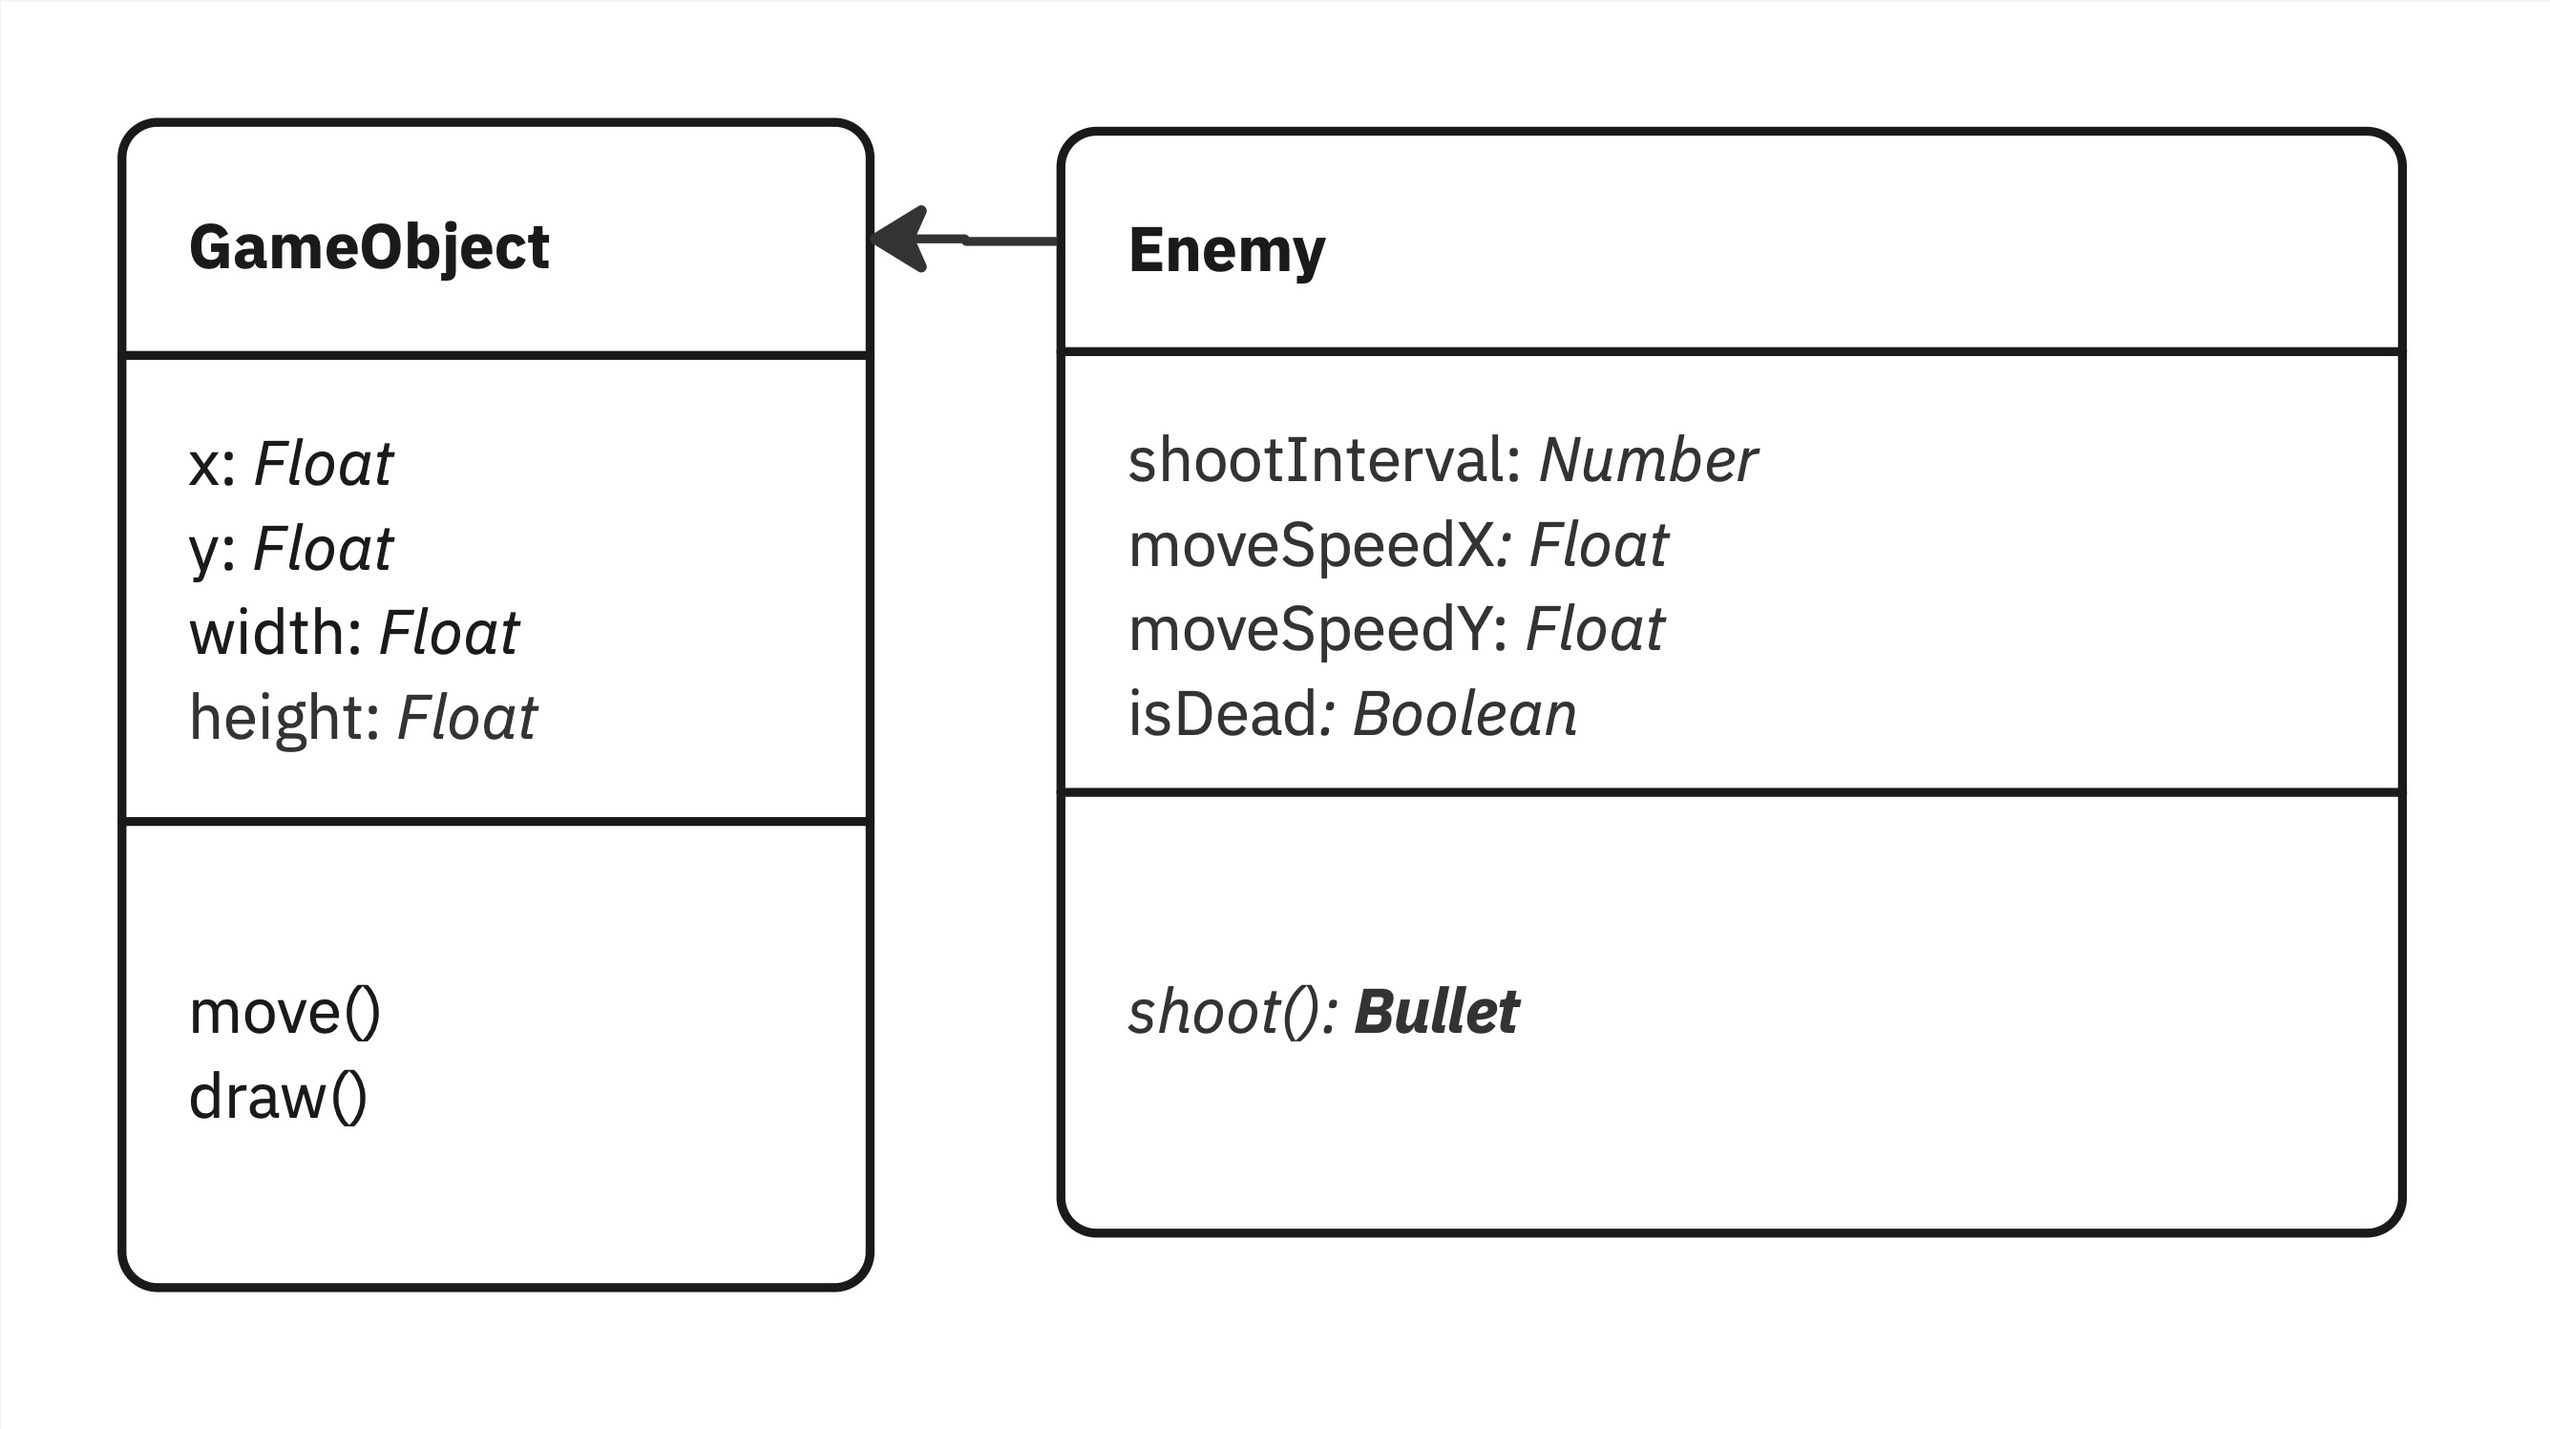
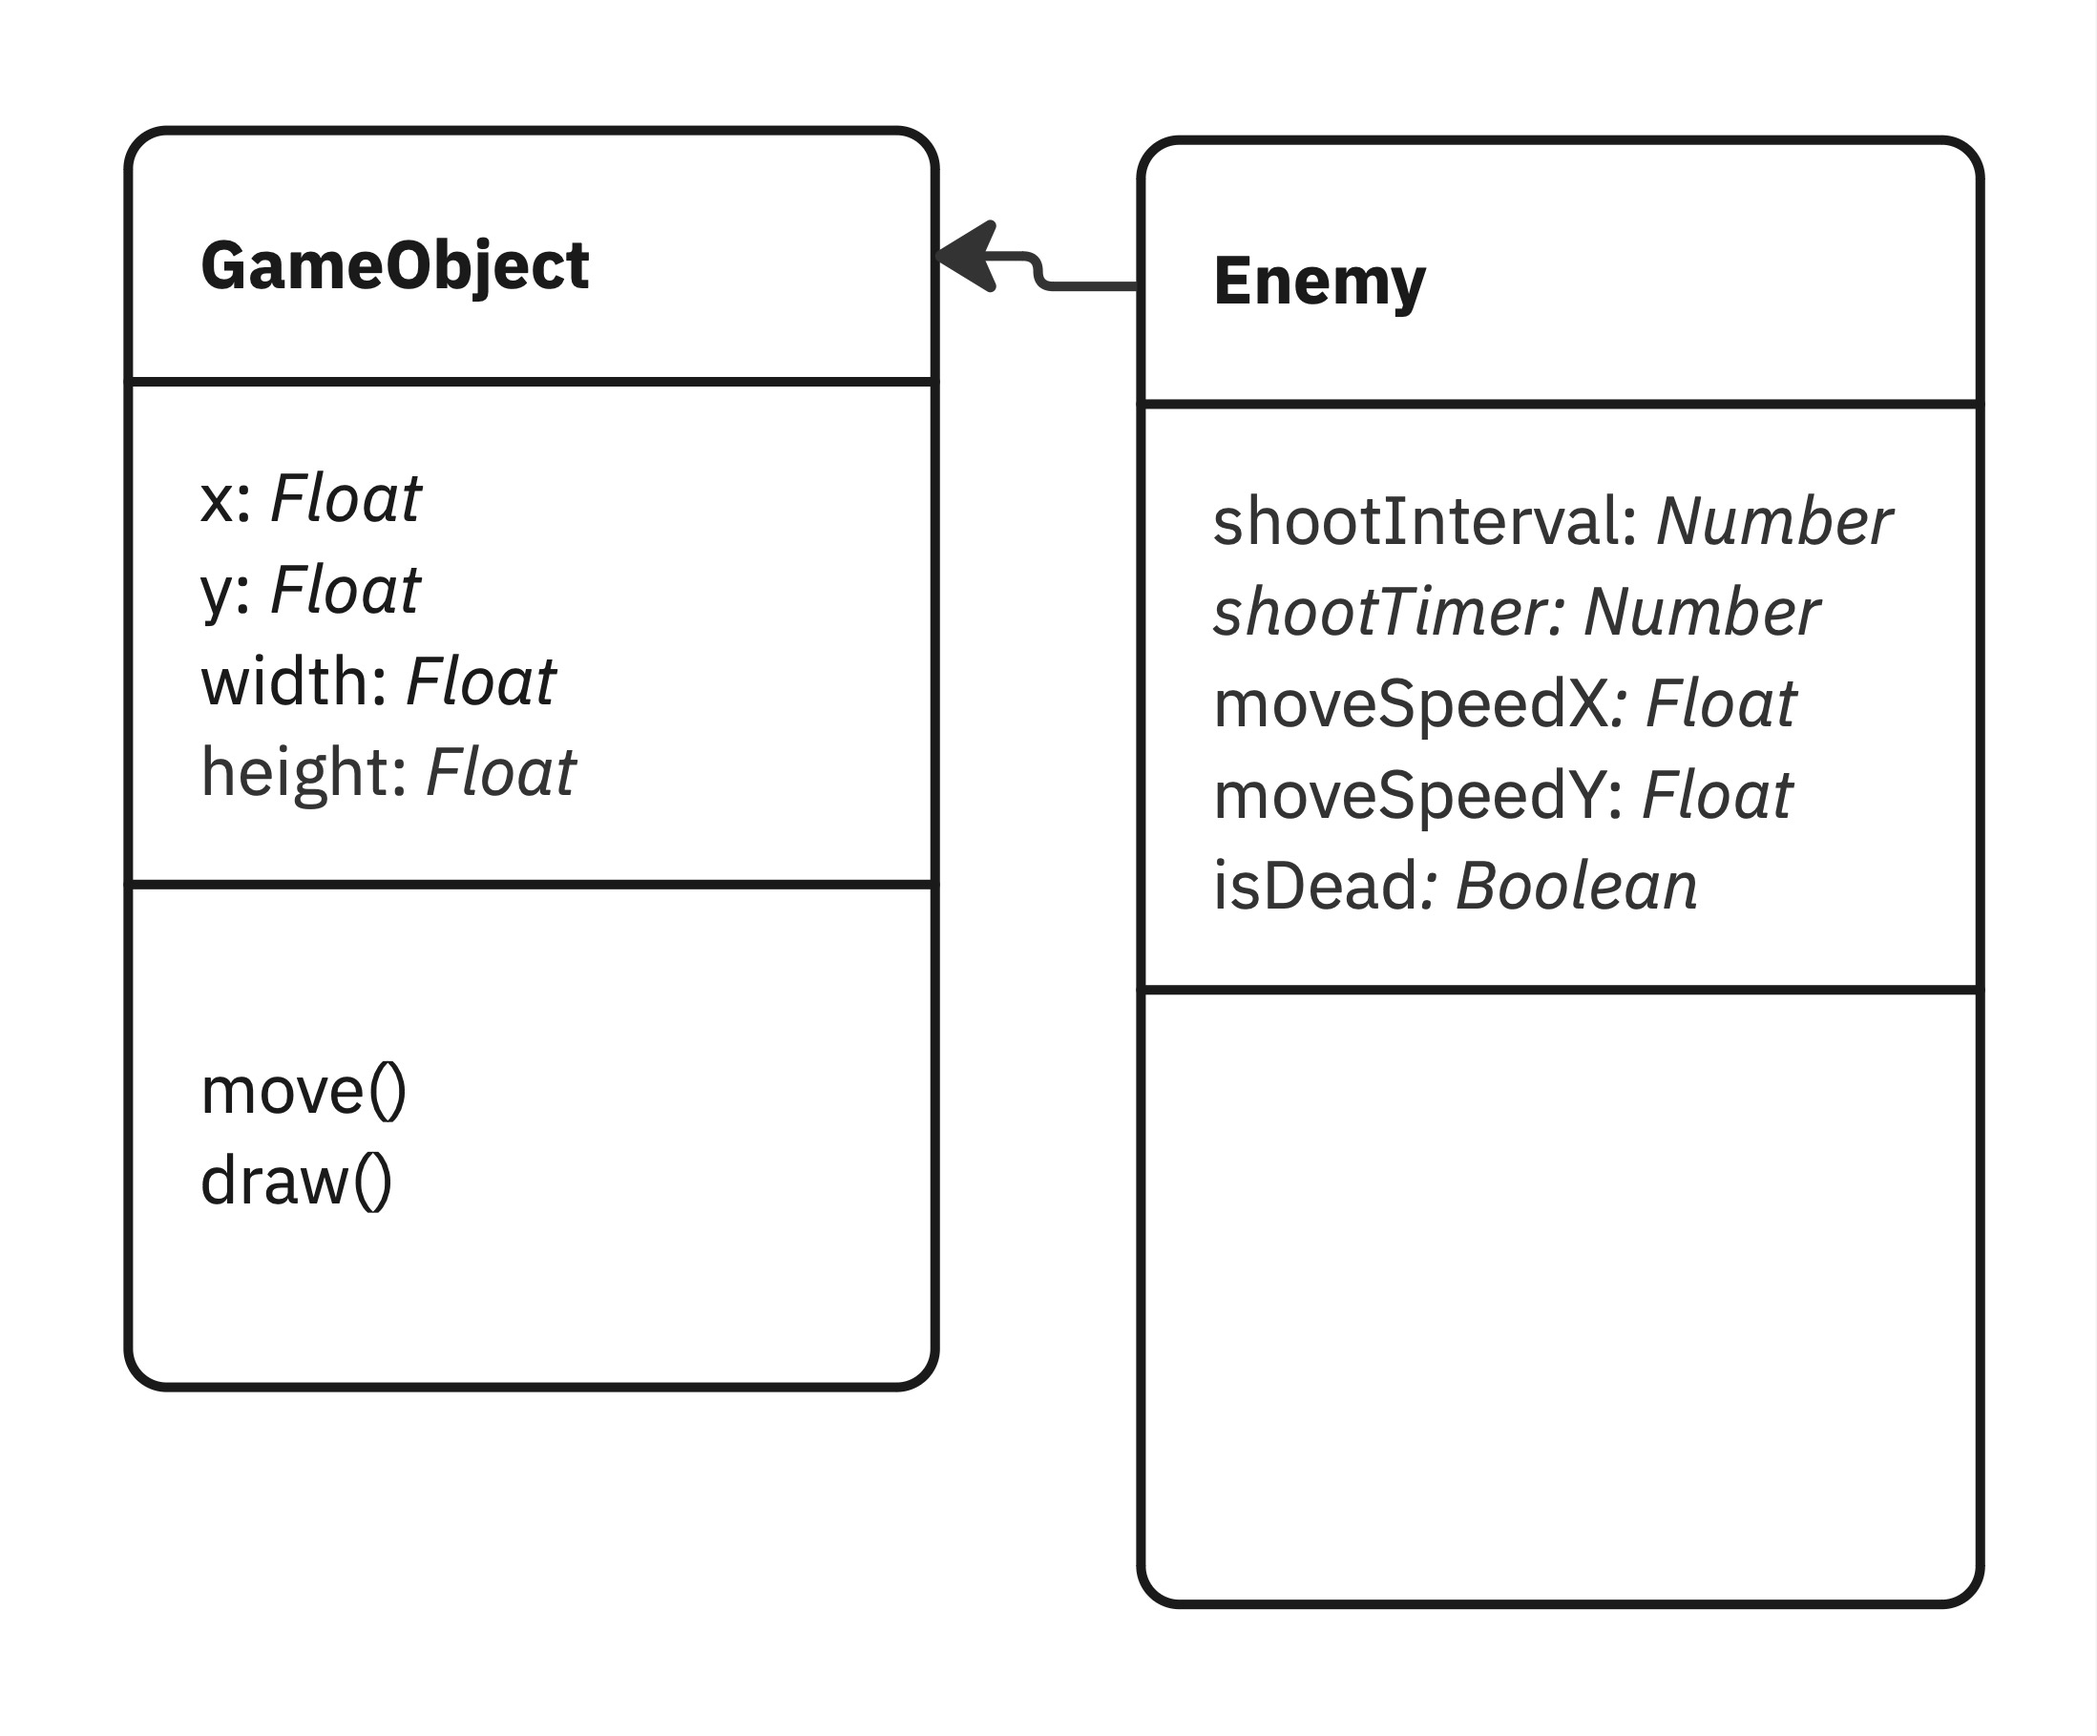
Finished the Coding Worksheet

Changed region(s): [[0.031, 0.0615, 0.9595, 0.9218], [0.5571, 0.9218, 0.9285, 0.9526], [0.0619, 0.8911, 0.3405, 0.9218]]

diff --git a/Week_17/README.md b/Week_17/README.md
@@ -9,7 +9,7 @@ Since we learned **Object-Oriented Programming** in the previous three weeks. Le
 
 As you are now more comfortable to work with the Class Diagram. Before we start coding, let's take a few minutes to **look** at the Class Diagram below, to understand the structure of our game project. To complete this project, you need to create 5 classes, including:
 
-![Class_Diagram](images/Class_Diagram.jpg)
+![Class_Diagram](images/Class_Diagram_0.jpg)
 
 - `Game`, a **singleton** Class where we stored data, including `level`, `health`, `enemies`, `bullets` and `player`.
 - `GameObject`, is a **superclass** where we store, `x`, `y`, `width`, and `height` properties.
@@ -151,7 +151,9 @@ function draw()
 
 <details>
 <summary>Tip:</summary>
-You might need to use the <a href="https://p5js.org/reference/#/p5/keyIsDown">keyIsDown</a> to detect keyboard events.
+
+You might need to use the [`keyIsDown`](https://p5js.org/reference/#/p5/keyIsDown) to detect keyboard events.
+
 </details>  
 
 ### &#x1F536; 2nd code challenge:  
@@ -165,20 +167,24 @@ You might need to use the <a href="https://p5js.org/reference/#/p5/keyIsDown">ke
 ! and add a few rows of enemies into your sketch!
 ``` 
 
+<details>
+<summary>Tip:</summary>
+
+You will need to use [`for`](https://www.w3schools.com/js/js_loop_for.asp) loops to create a few rows of `enemies`, and you will also need to customize the `movingSpeedX` of enemies based on their row number!
+
+</details>  
+
 Idealistically, after you finish the two challenges above, there will be a few rows of enemies and a player on your sketch. 
 
 ![Game Object Class Diagram](./images/Screenshot_2.gif)
-
-<details>
-<summary>Tip:</summary>
-You will need to use For loops to create a few rows of enemies, and you will also need to customize the moving speed of enemies based on their row number!
-</details>  
 
 *****
 
 ### Task 3 - Let's bullets Fly!
 
 If you have completed these tasks, it's time to enable our player to shoot bullets!
+
+#### 1. Creating the `Bullet` Class
 
 ![Game Object Class Diagram](./images/Class_Diagram_5.jpg)
 
@@ -195,7 +201,9 @@ class Bullet extends GameObject
   // Create a new bullet by passing who is the shooter.
   constructor(shooter)
   {
-    // Use super() statement to call its superclass - GameObject, to initialise a new Bullet object. based on current shooter's x and y axis.
+    // Use super() statement to call its superclass - GameObject
+    // to initialise a new Bullet object. 
+    // based on current shooter's x and y axis.
     super(shooter.x,shooter.y,2,20);
 
     // Record who shoot the bullet
@@ -211,12 +219,204 @@ class Bullet extends GameObject
 }
 ```
 
-To enable our player to shoot Bullets. We need to add the new function `shoot()` into our `Player` Class. If we detect a player pressing a key, it will generate a bullet from the current player's position.
+#### 2. Shooting bullets from the `Player`.
+
+To enable our player to shoot Bullets. We need to add this skill to our `Player` class. If we detect a player pressing a key, it will generate a bullet from the current player's position. In `sketch.js`, we need to create an empty array of `bullets` as a global variable:
+
+```javascript
+// An empty bullets array to record all the bullets
+let bullets = [];
+```
+
+and draw the `bullets` array with a for loop inside the `draw()`:
+
+```javascript
+// Render all the bullets inside our array.
+for (let i=0; i<bullets.length; i++)
+{
+  bullets[i].move();
+  bullets[i].draw();
+}
+```
+
+...and lastly, create a new `Bullet` object when we press the Space bar.
+
+```javascript
+function keyPressed()
+{
+  // When we detect the space bar (keyCode 32) is being pressed
+  if (keyCode == 32)
+  {
+    // Create a new bullet with the player's object
+    let bullet = new Bullet(player);
+    // Add the bullet into our bullets array.
+    bullets.push(bullet);
+  }
+}
+```
+
+### &#x1F536; 3rd code challenge:  
+
+```diff
+! Don't let the player shooting bullets alone.
+! Let's the enemies joins our bullets party as well!
+! Please enable them to shoot towards the opposite direction.
+``` 
+
+<details>
+<summary>Tip:</summary>
+Please take a look at the Enemy Class Diagram. You will need to:
+
+1. Generate a random number to set the `shootInterval` of shooting bullets, and a `shootTimer` to record how long since we shoot the last bullet.
+2. If the `shootTimer` is equal to or bigger than the `shootInterval`, create a new `Bullet`, push it into our `bullet` array, and reset the `shootTimer` and `shootInterval`.
+3. If the shooter is not the player, reverse the `moveSpeedY` of the bullet.
+</details>  
+
+Idealistically, after you finish the two challenges above, the enemies will shoot their bullets like rain!
+
+![Game Object Class Diagram](./images/Screenshot_3.gif)
 
 *****
 
-### Task 4 - Implementing the `Game` Class into `sketch.js`
+### Task 4 - GAME OVER!
+
+The `Player` and the `enemies` are indeed shooting a lot of `bullets`! But those `bullets` seem quite harmless. Let's do some damage! Since we learned about the [Singleton Design Pattern](https://en.wikipedia.org/wiki/Singleton_pattern) today. Let's put it into real practice!
 
 ![Game Object Class Diagram](./images/Class_Diagram_2.jpg)
 
+#### 1. Create the Singleton Class `Game`
+Based on the `Game` Class Diagram above, it should include a few arrays of `enemies`, `bullets` and one `player` object. Meanwhile, it also provides a `Game` object named as `shared`. Therefore, we can access all the properties inside the singleton class `Game`.
+
+Firstly, let's replace our global variables inside the `sketch.js`, including `player`, `enemies` and `bullets` into our new `Game` class.
+
+```javascript
+class Game
+{
+  // A Single and only access to our Game Data. 
+  // When we need to access the data in other classes or files. 
+  // We just need to use Game.shared to access all the necessary data.
+  static shared = new Game();
+
+  // We put all our previous global variable into the `Game` class. 
+  // Therefore, 
+  player = new Player(320, 420, 20, 20);
+  enemies = [];
+  bullets = [];
+}
+```
+
+#### 2. Refactor our global variables.
+
+If you run your project now. There will be a lot of red errors popping out! Don't panic! This is a normal process. You just need to replace all codes that are still using the previous global variables `player`, `enemies` and `bullets` with the new `Game.shared.player`, `Game.shared.enemies` and the `Game.shared.bullets`. In the programming world, we call this process **Refactoring**. If you have no idea where to find those variable still haven't replace. Just open the **Inspect** Panel on the Web Browser and take a look at the error messages in the **Console panel**!
+
+#### 3. GAME OVER!
+
+In the `Bullet` class, we need to add another function for detecting if the bullet is colliding with other GameObjects. In the following script, by accessing the Singleton Class with `Game.shared.player`, if the bullet is colliding with the player, it will set the player as dead.
+
+```javascript
+detectCollision()
+{
+  // Get the player Object from our Game Singleton Class
+  let player = Game.shared.player
+
+  // If the bullet is not shoot by the bullet, 
+  // detect if the bullet is collide with the player.
+  if (this.shooter != player)
+  {
+    // If the bullet is within the range of the bullet...
+    if (this.x > player.x && this.x < player.x + player.width && 
+        this.y > player.y && this.y < player.y + player.height)
+    {
+      // If the player haven't die yet.
+      if (!player.isDead)
+      {
+        // The Player is now dead!
+        player.isDead = true;
+      }
+    }
+  }
+}
+```
+
+We also need to execute the detection function when it's drawing the bullet
+```javascript
+draw()
+{
+  fill('white');
+  this.y += this.moveSpeedY;
+  rect(this.x,this.y,this.width,this.height);
+  // Add the detectCollision function in draw();
+  this.detectCollision();
+}
+```
+
+Finally, inside our `sketch.js` file, if we found out the player was already dead. Let's end our game by adding a Game Over Scene by refactoring our draw() function with:
+
+```javascript
+function draw() 
+{
+  background(0);
+  
+  // If the player is already dead, let's display game over instead.
+  if (Game.shared.player.isDead) 
+  { 
+    textFont('Helvetica');
+    textSize(64);
+    text('GAME OVER!', 120, 260); 
+  }
+  // If the player is still alive, let's continue our game.
+  else
+  {
+    Game.shared.player.move();
+    Game.shared.player.draw();
+    
+    for (let i=0; i<Game.shared.enemies.length; i++)
+    {
+      Game.shared.enemies[i].move();
+      Game.shared.enemies[i].draw();
+    }
+
+    for (let i=0; i<Game.shared.bullets.length; i++)
+    {
+      Game.shared.bullets[i].move();
+      Game.shared.bullets[i].draw();
+    }
+  }
+}
+```
+
+### &#x1F536; 4rd code challenge:  
+
+```diff
+! Let's the enemies can be hit by the player's bullets!
+! If there's no enemies on the screen anymore, declare victory!
+! But beaware, do not let the enemies killing each other with their own bullets!
+``` 
+
+Idealistically, after you finish the challenge above, there will be a few rows of enemies and a player on your sketch. 
+
+![Game Object Class Diagram](./images/Screenshot_4.gif)
+
 *****
+
+### Task 5 - LEVEL UP!
+
+Congratulations! You have completed this coding worksheet. If you are looking for hard mode. Let's continue with these two additional challenges!
+
+### &#x1F536; 5rd code challenge:  
+
+```diff
+! What would happened after the player is being shoot?
+! Please give the player 3 chances to play, 
+! if the player killed all ememies, they win the game,
+! or reduce player's health rate by 1,
+! and restart the game!
+``` 
+
+### &#x1F536; 6rd code challenge:  
+
+```diff
+! Don't let the player shooting bullets alone.
+! Let's the enemies joins our bullets party as well!
+! Please enable them to shoot towards the opposite direction.
+``` 
